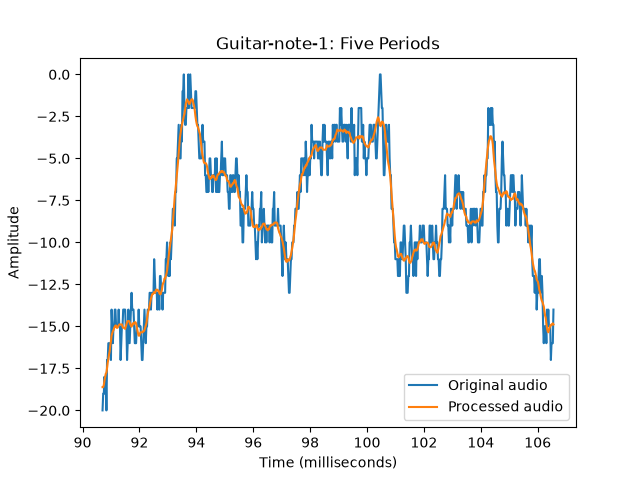
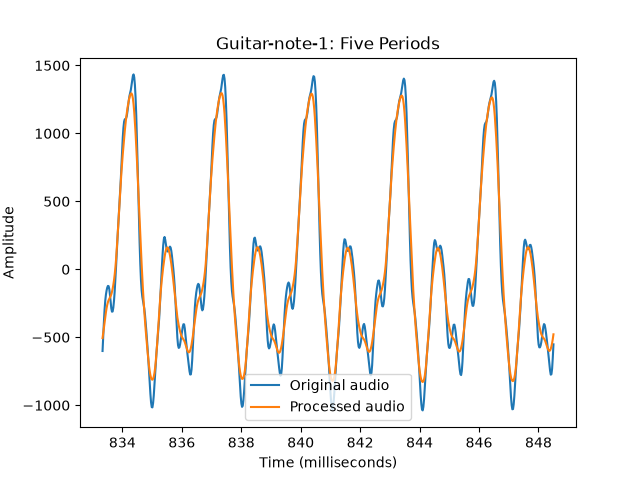
11/19

diff --git a/Exams/Assignment 3 - Signals and Numerical analysis/student_template_3.py b/Exams/Assignment 3 - Signals and Numerical analysis/student_template_3.py
@@ -18,12 +18,14 @@ See Canvas for additional requirements.
 import numpy as np
 import matplotlib.pyplot as plt
 from scipy.io import wavfile
+import os
 
 
 # Read the note names and frequencies from the reference file.
 note_names = []
 note_frequencies = []
-reference_file = open(r"..\..\data\musical-notes\note-frequencies-reference.csv")
+data_dir = os.path.join("..", "..", "data", "musical-notes")
+reference_file = open(os.path.join(data_dir, "note-frequencies-reference.csv"))
 reference_lines = reference_file.readlines()
 reference_file.close()
 
@@ -44,18 +46,21 @@ file_names = [
 print("File name           Frequency (Hz)   Note")
 
 for file_name in file_names:
-    sample_rate, audio = wavfile.read(r"..\..\data\musical-notes\\" + file_name)
+    sample_rate, audio = wavfile.read(os.path.join(data_dir, file_name))
 
     # These supplied recordings are mono. Remove the average value.
     original_audio = audio
     audio = audio - np.mean(audio)
 
     # Compare the signal with delayed copies to find its repeating period.
+    # Using a section from the middle of the recording: it skips the pluck at the start and the quiet decay at the end.
     section_start = len(audio) // 3
     section = audio[section_start:section_start + 5000]
     scores = []
     lags = []
 
+
+    # Lags of 10 to 1600 samples cover about 27 Hz to 4400 Hz at 44.1 kHz.
     for lag in range(10, 1601):
         first_part = section[:-lag]
         second_part = section[lag:]
@@ -65,6 +70,8 @@ for file_name in file_names:
         scores.append(score)
         lags.append(lag)
 
+
+    # Take the FIRST strong peak, not the highest, so we get the fundamental period instead of a multiple of it.
     threshold = 0.85 * max(scores)
     best_lag = lags[0]
     for i in range(1, len(scores) - 1):
@@ -84,38 +91,40 @@ for file_name in file_names:
     note = note_names[note_index]
     print(file_name, round(frequency, 2), note)
 
-    if file_name == "Guitar-note-1.wav":
-        time = np.arange(len(original_audio)) / sample_rate
+    # Name used for plot titles and saved image files.
+    base_name = file_name.replace(".wav", "")
+    time = np.arange(len(original_audio)) / sample_rate
 
-        # Task 1: plot the complete recording.
-        plt.figure()
-        plt.plot(time, original_audio, label="Original audio")
-        plt.xlabel("Time (seconds)")
-        plt.ylabel("Amplitude")
-        plt.title("Guitar-note-1: Full Audio Signal")
-        plt.legend()
+    # Task 1: plot the complete recording.
+    plt.figure()
+    plt.plot(time, original_audio, label="Original audio")
+    plt.xlabel("Time (seconds)")
+    plt.ylabel("Amplitude")
+    plt.title(base_name + ": Full Audio Signal")
+    plt.legend()
+    plt.savefig(base_name + "-full.png")
 
-        plt.savefig("Guitar-note-1-full.png")
+    # Task 2: show five periods, starting where the period was measured.
+    # The window length comes from the detected period (best_lag), so it
+    # adapts to any note.
+    start = section_start
+    stop = section_start + 5 * best_lag
+    detail_time = np.arange(start, stop) / sample_rate * 1000
 
-        # Smooth the signal with a moving average.
-        # # This sample range shows about five periods of Guitar-note-1.
-        start = 4000
-        stop = 4700
-        detail_time = np.arange(start, stop) / sample_rate * 1000
+    # Smooth the plotted region with a 15-sample moving average.
+    # The original (not mean-removed) audio is smoothed so both lines match.
+    processed = []
+    for i in range(start, stop):
+        samples = original_audio[i - 7 : i + 8]
+        processed.append(np.mean(samples))
 
-        # Smooth only the plotted region with a moving average.
-        processed = []
-        for i in range(start, stop):
-            samples = audio[i - 7 : i + 8]
-            processed.append(np.mean(samples))
-
-        plt.figure()
-        plt.plot(detail_time, original_audio[start:stop], label="Original audio")
-        plt.plot(detail_time, processed, label="Processed audio")
-        plt.xlabel("Time (milliseconds)")
-        plt.ylabel("Amplitude")
-        plt.title("Guitar-note-1: Five Periods")
-        plt.legend()
-        plt.savefig("Guitar-note-1-periods.png")
+    plt.figure()
+    plt.plot(detail_time, original_audio[start:stop], label="Original audio")
+    plt.plot(detail_time, processed, label="Processed audio")
+    plt.xlabel("Time (milliseconds)")
+    plt.ylabel("Amplitude")
+    plt.title(base_name + ": Five Periods")
+    plt.legend()
+    plt.savefig(base_name + "-periods.png")
 
 plt.show()
